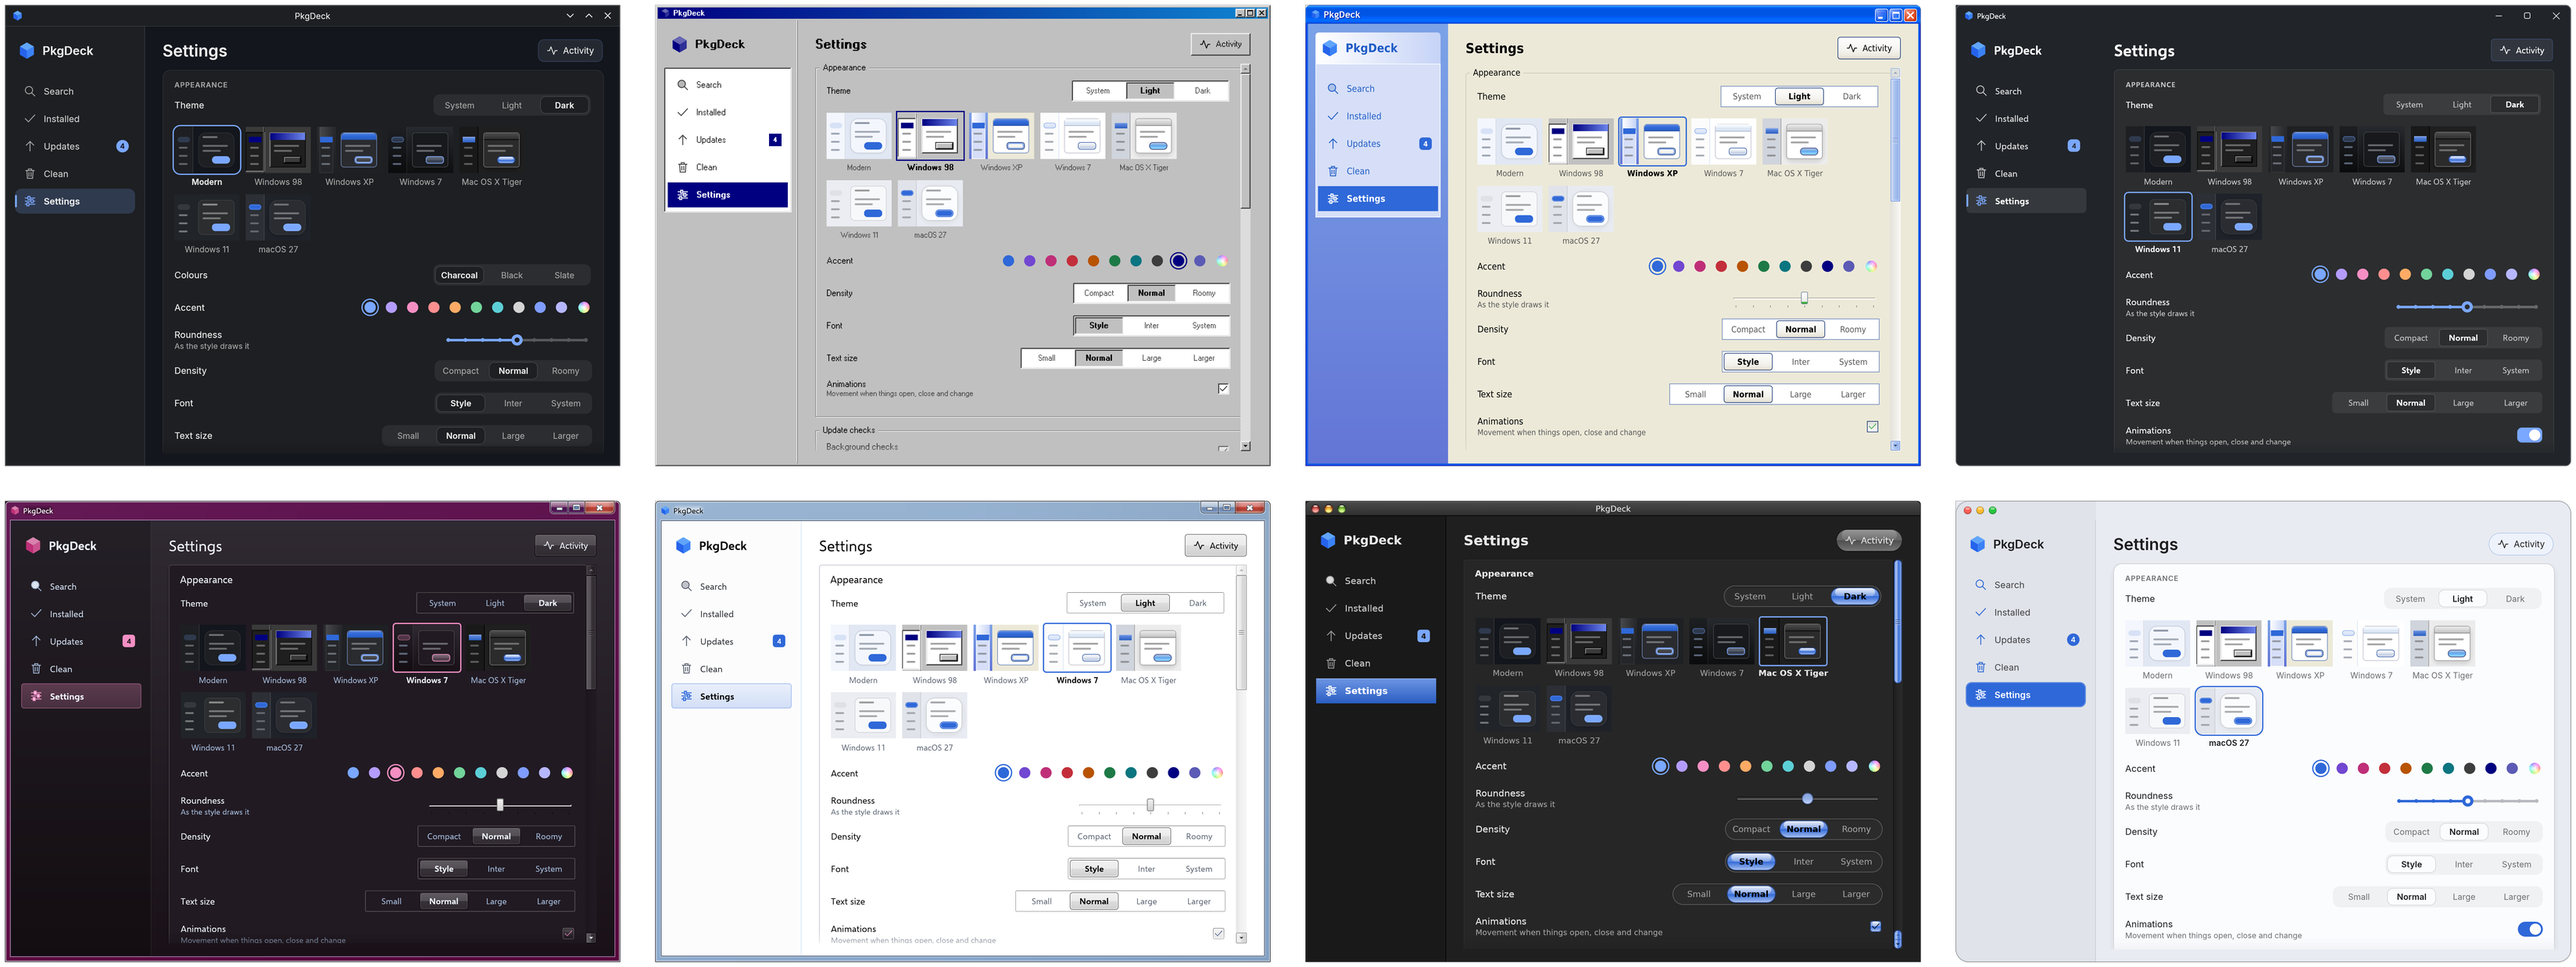
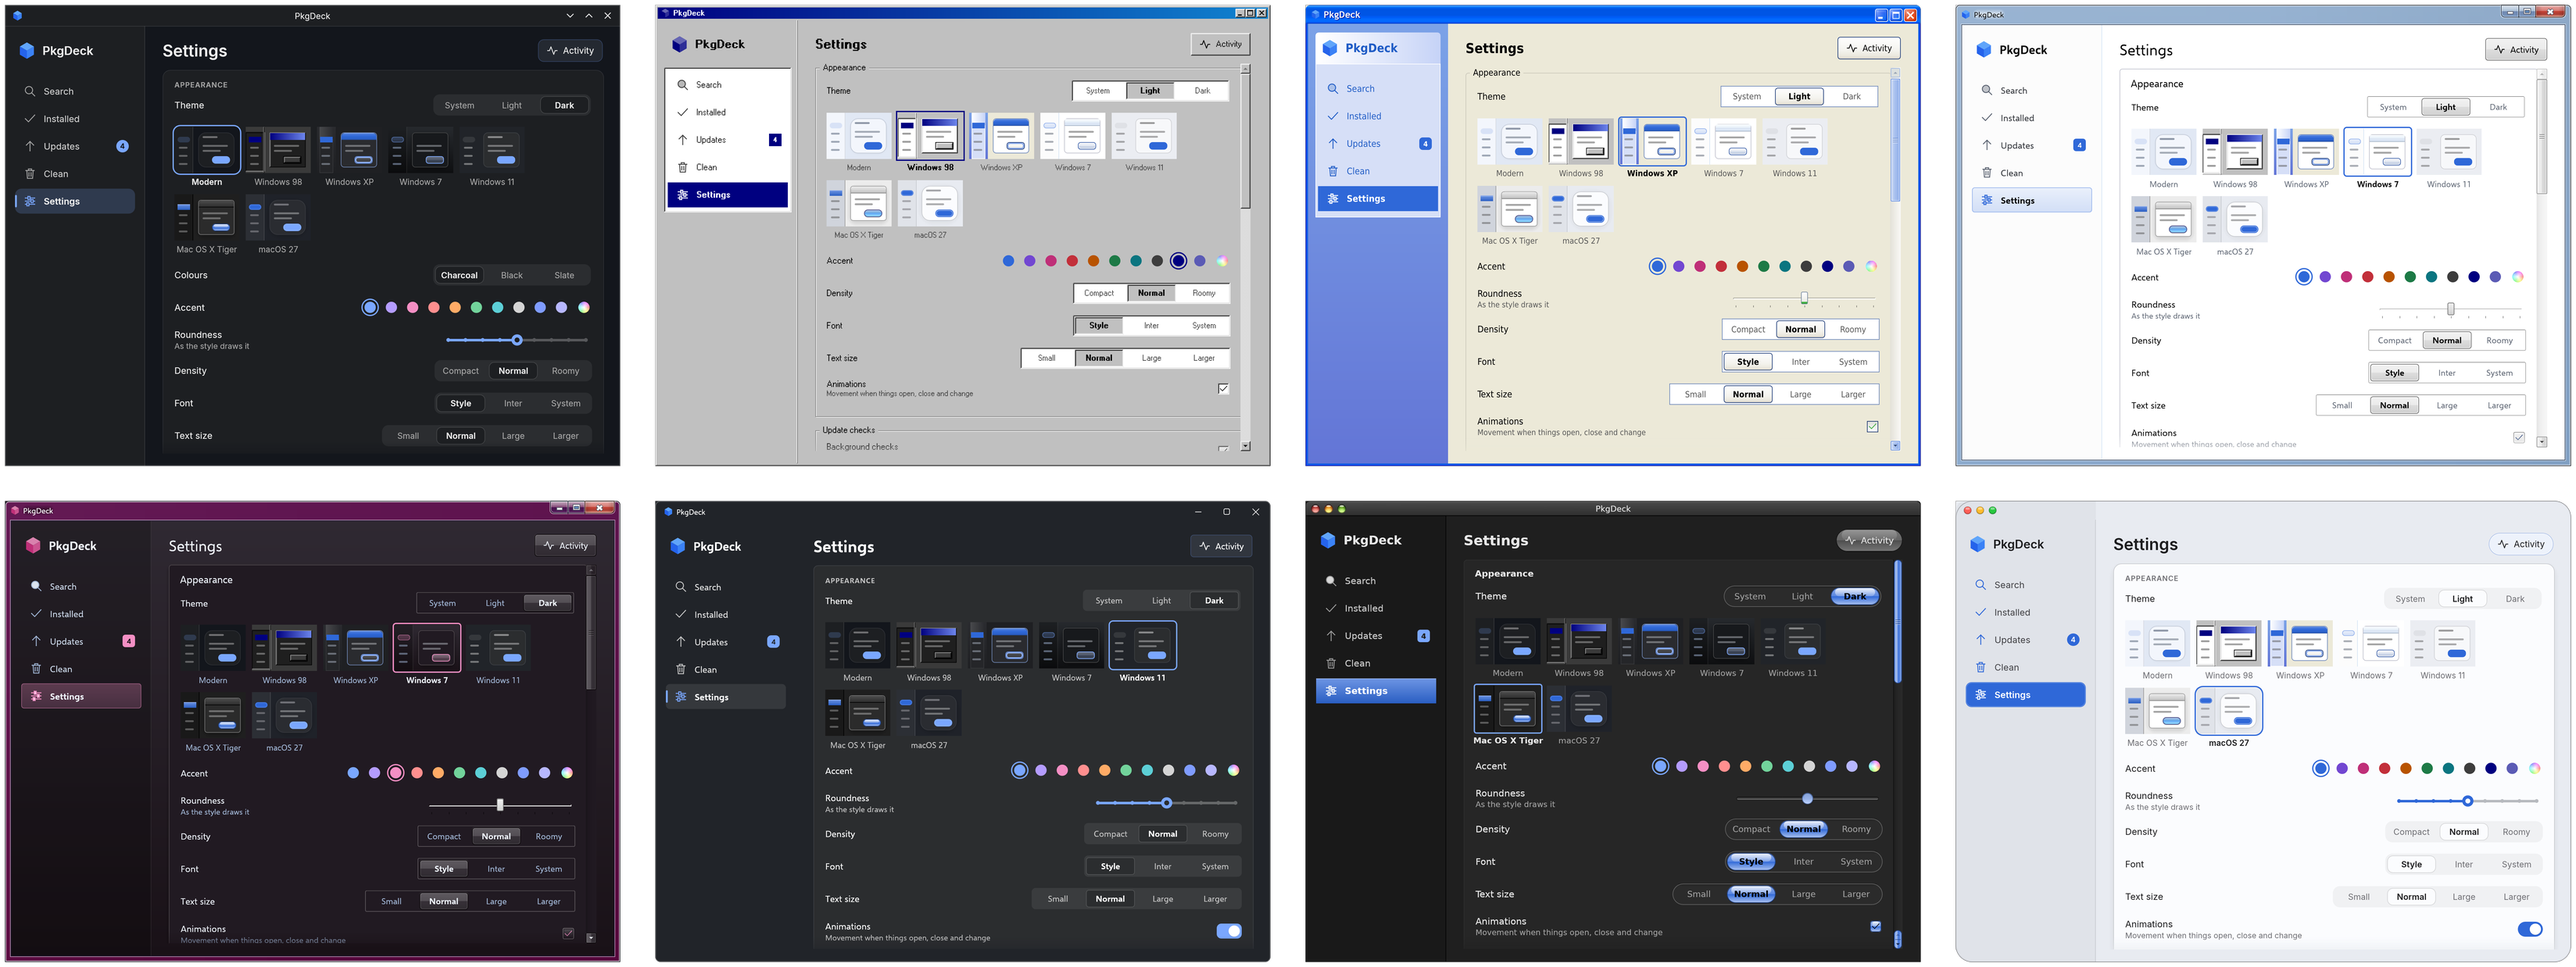
Style picker and README grid go Windows oldest to newest, then Mac

diff --git a/crates/pkgdeck/src/settings.rs b/crates/pkgdeck/src/settings.rs
@@ -152,13 +152,15 @@ impl Family {
 }
 
 impl Style {
+    /// In the order the picker shows them: Windows oldest to newest, then
+    /// the Mac.
     pub const ALL: [Self; 7] = [
         Self::Modern,
         Self::Retro,
         Self::Luna,
         Self::Glass,
-        Self::Aqua,
         Self::Fluent,
+        Self::Aqua,
         Self::Liquid,
     ];
     pub fn name(self) -> &'static str {
@@ -818,8 +820,8 @@ mod tests {
                 Family::Retro,
                 Family::Luna,
                 Family::Glass,
-                Family::Gel,
                 Family::Fluent,
+                Family::Gel,
                 Family::Liquid,
             ]
         );

diff --git a/crates/pkgdeck/examples/screenshots.rs b/crates/pkgdeck/examples/screenshots.rs
@@ -261,9 +261,9 @@ fn themes() {
         (Style::Modern, true, None),
         (Style::Retro, false, None),
         (Style::Luna, false, None),
-        (Style::Fluent, true, None),
-        (Style::Glass, true, Some(Accent::Pink)),
         (Style::Glass, false, None),
+        (Style::Glass, true, Some(Accent::Pink)),
+        (Style::Fluent, true, None),
         (Style::Aqua, true, None),
         (Style::Liquid, false, None),
     ];

diff --git a/docs/gui.md b/docs/gui.md
@@ -538,9 +538,9 @@ out of date, and each page refreshes when you open it.
     from navy to blue.
   - **Windows XP**: glossy blue bars and rounded buttons.
   - **Windows 7**: sky-blue glass over Explorer's white.
-  - **Mac OS X Tiger**: Aqua gel buttons and plain grey title bars.
   - **Windows 11**: Mica-grey panels, a small corner radius, a selection bar
     on the side and the flat minimise, maximise and close buttons.
+  - **Mac OS X Tiger**: Aqua gel buttons and plain grey title bars.
   - **macOS 27**: a sidebar that runs up to the top edge, with icons in the
     accent, Liquid Glass traffic lights at the top left and large soft
     corners.

diff --git a/README.md b/README.md
@@ -4,7 +4,7 @@ One app for every package manager.
 
 Search, install, update, and clean up software, from the app or the `pkd` command line.
 
-![PkgDeck Settings in Modern, Windows 98, Windows XP, Windows 7, Mac OS X Tiger, Windows 11 and macOS 27 styles, light and dark](docs/screenshots/themes.png)
+![PkgDeck Settings in Modern, Windows 98, Windows XP, Windows 7, Windows 11, Mac OS X Tiger and macOS 27 styles, light and dark](docs/screenshots/themes.png)
 
 ## ✨ Features
 
